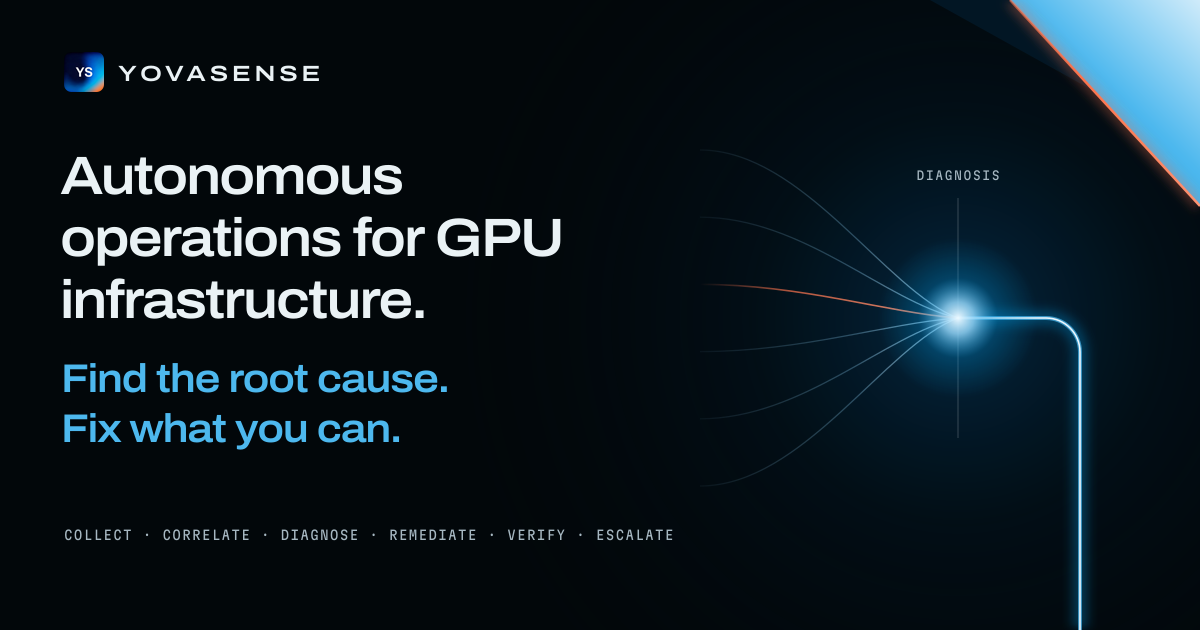
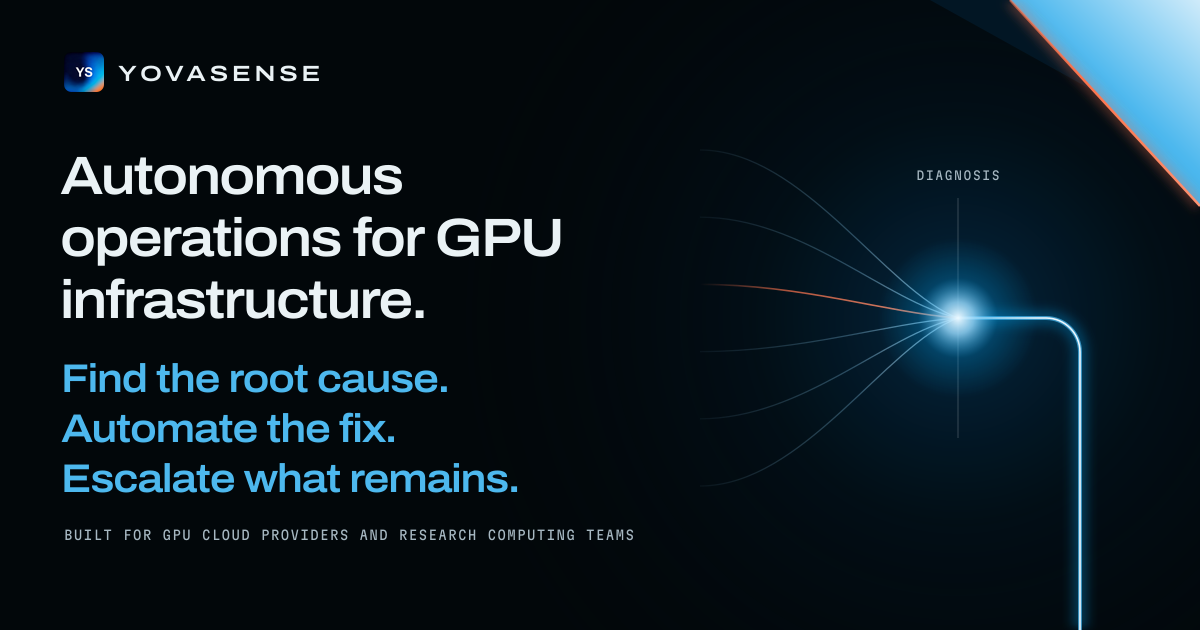
Update the metadata and share cards for the new hero
Description and keywords from the new hero lines; the share card gains
"Automate the fix." and "Escalate what remains." and the "Built for GPU
cloud providers and research computing teams" mono line.

Changed region(s): [[0.0308, 0.6333, 0.4317, 0.7841], [0.0617, 0.8444, 0.555, 0.8746]]

diff --git a/src/app/page.tsx b/src/app/page.tsx
@@ -10,7 +10,7 @@ import ScrollReader from "@/components/yovasense/ScrollReader";
 
 const TITLE = `${yovasense.name} — Autonomous operations for GPU infrastructure`;
 const DESCRIPTION =
-  "YovaSense correlates telemetry across GPUs, hosts, networking, schedulers and workloads to diagnose infrastructure incidents, run safe, approved recovery actions and verify that GPU capacity is healthy again, for training and inference.";
+  "Built for GPU cloud providers and research computing teams. YovaSense finds the root cause, automates the fix and escalates what remains.";
 
 export const metadata: Metadata = {
   title: TITLE,
@@ -18,18 +18,13 @@ export const metadata: Metadata = {
   authors: [{ name: yovasense.founder, url: SITE_URL }],
   keywords: [
     "GPU infrastructure operations",
-    "GPU fleet operations",
-    "GPU incident diagnosis",
-    "Xid 79",
-    "GPU fallen off the bus",
-    "InfiniBand",
-    "NCCL",
-    "RDMA",
+    "autonomous GPU operations",
+    "GPU incident response",
+    "GPU cloud providers",
+    "research computing",
     "Slurm",
     "Kubernetes",
-    "DCGM",
-    "straggler detection",
-    "GPUBridge",
+    "Slack",
   ],
   alternates: { canonical: "/" },
   openGraph: {
@@ -47,7 +42,7 @@ export const metadata: Metadata = {
   },
 };
 
-/** The homepage: signal layers converge into one diagnosis in the hero and become one luminous line that runs to the pilot call, over a light field that moves with the reader. */
+/** The landing page: signal layers converge into one diagnosis in the hero and become one luminous line that runs to the final call to action, over a light field that moves with the reader. */
 export default function YovaSensePage() {
   return (
     <>

diff --git a/src/app/layout.tsx b/src/app/layout.tsx
@@ -8,7 +8,7 @@ const martian = Martian_Mono({ subsets: ["latin"], axes: ["wdth"], variable: "--
 export const metadata: Metadata = {
   metadataBase: new URL("https://yovasense.com"),
   title: "YovaSense — Autonomous operations for GPU infrastructure",
-  description: "YovaSense diagnoses GPU infrastructure incidents across GPUs, hosts, networking, schedulers and workloads, runs approved recovery actions and verifies the capacity is healthy.",
+  description: "Built for GPU cloud providers and research computing teams. YovaSense finds the root cause, automates the fix and escalates what remains.",
   applicationName: "YovaSense",
   authors: [{ name: "David Czartoryski" }, { name: "Thomas Czartoryski" }],
   alternates: { canonical: "/" },
